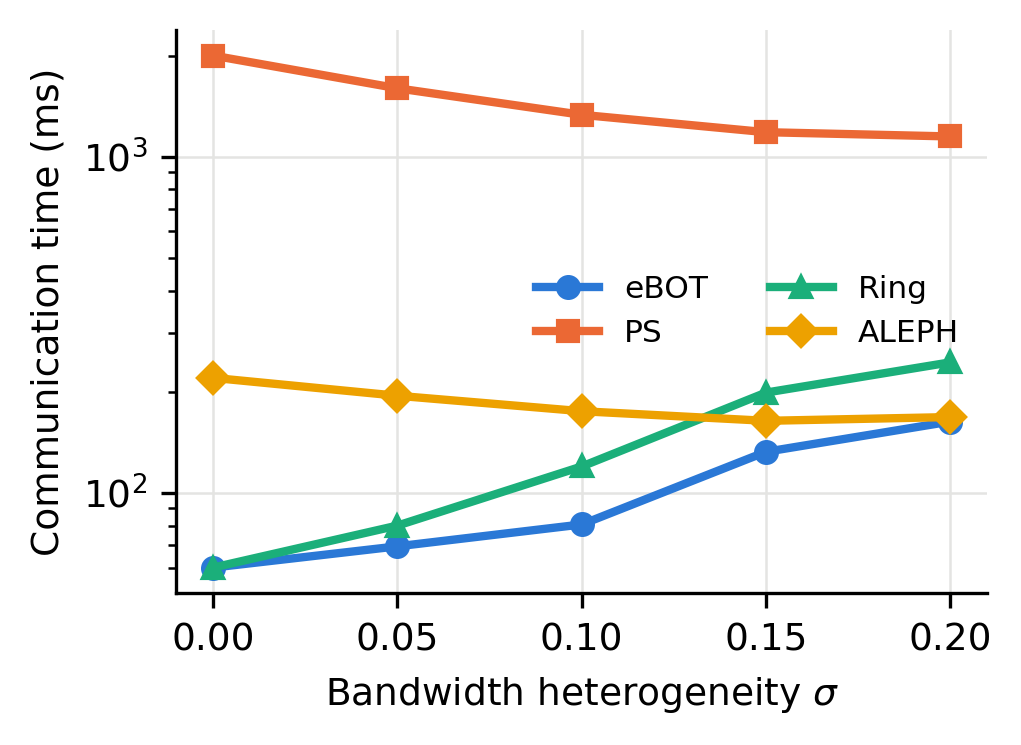
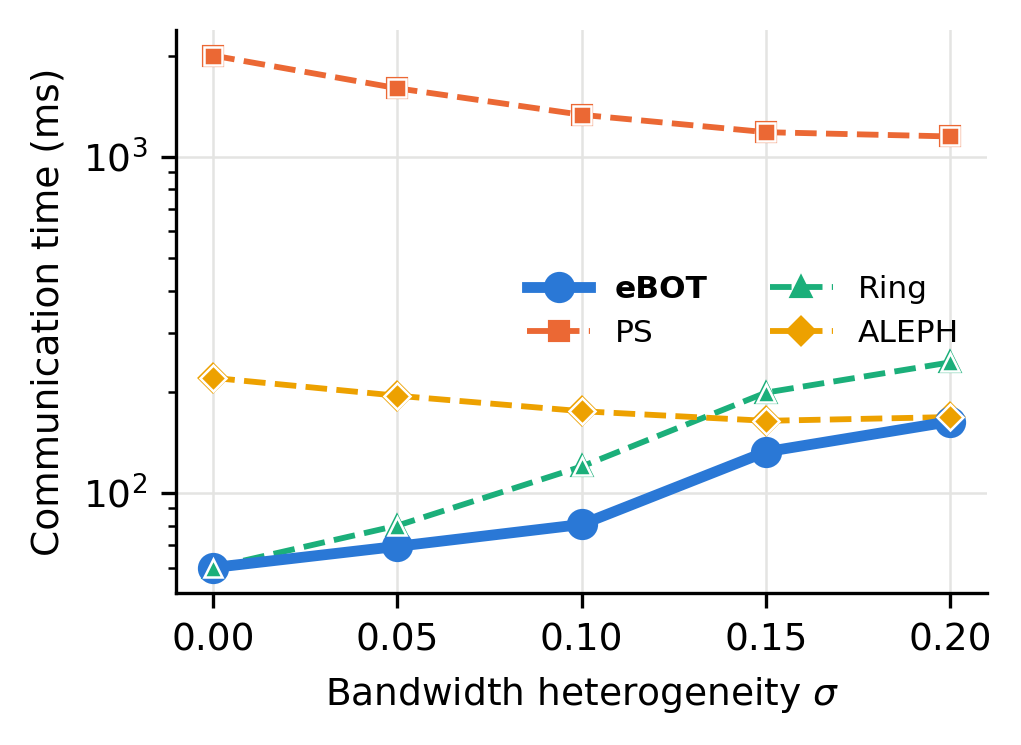
update images

diff --git a/simulation/main.py b/simulation/main.py
@@ -348,6 +348,13 @@ STYLE = {
     "ALEPH": {"color": "#eda100", "marker": "D"},
 }
 
+# The proposed method is emphasized: thicker solid line drawn on top;
+# baselines are thinner and dashed.
+HIGHLIGHT = "eBOT"
+HIGHLIGHT_STYLE = {"linewidth": 2.6, "markersize": 6.5, "zorder": 5}
+BASELINE_STYLE = {"linewidth": 1.4, "markersize": 4.5, "zorder": 3,
+                  "linestyle": "--"}
+
 # Paper figures: file name -> (column, std column, y label, log scale)
 FIGURES = {
     "aggregation_time_vs_sigma": (
@@ -389,12 +396,24 @@ def plot_metric(
             data[column],
             yerr=None if yerr_column is None else data[yerr_column],
             label=architecture,
-            linewidth=2,
-            markersize=5,
             capsize=3,
             elinewidth=1,
             **STYLE[architecture],
+            **(HIGHLIGHT_STYLE if architecture == HIGHLIGHT
+               else BASELINE_STYLE),
         )
+
+        # Keep baseline markers visible where they sit on the eBOT line
+        if architecture != HIGHLIGHT:
+            ax.plot(
+                data[x], data[column],
+                linestyle="none",
+                markersize=BASELINE_STYLE["markersize"],
+                markeredgecolor="white",
+                markeredgewidth=0.6,
+                zorder=HIGHLIGHT_STYLE["zorder"] + 1,
+                **STYLE[architecture],
+            )
 
     if log:
         ax.set_yscale("log")
@@ -415,7 +434,10 @@ def plot_metric(
     for side in ("top", "right"):
         ax.spines[side].set_visible(False)
 
-    ax.legend(frameon=False, ncol=2, fontsize=7.5)
+    legend = ax.legend(frameon=False, ncol=2, fontsize=7.5)
+    for text in legend.get_texts():
+        if text.get_text() == HIGHLIGHT:
+            text.set_fontweight("bold")
     fig.tight_layout()
 
     return fig
